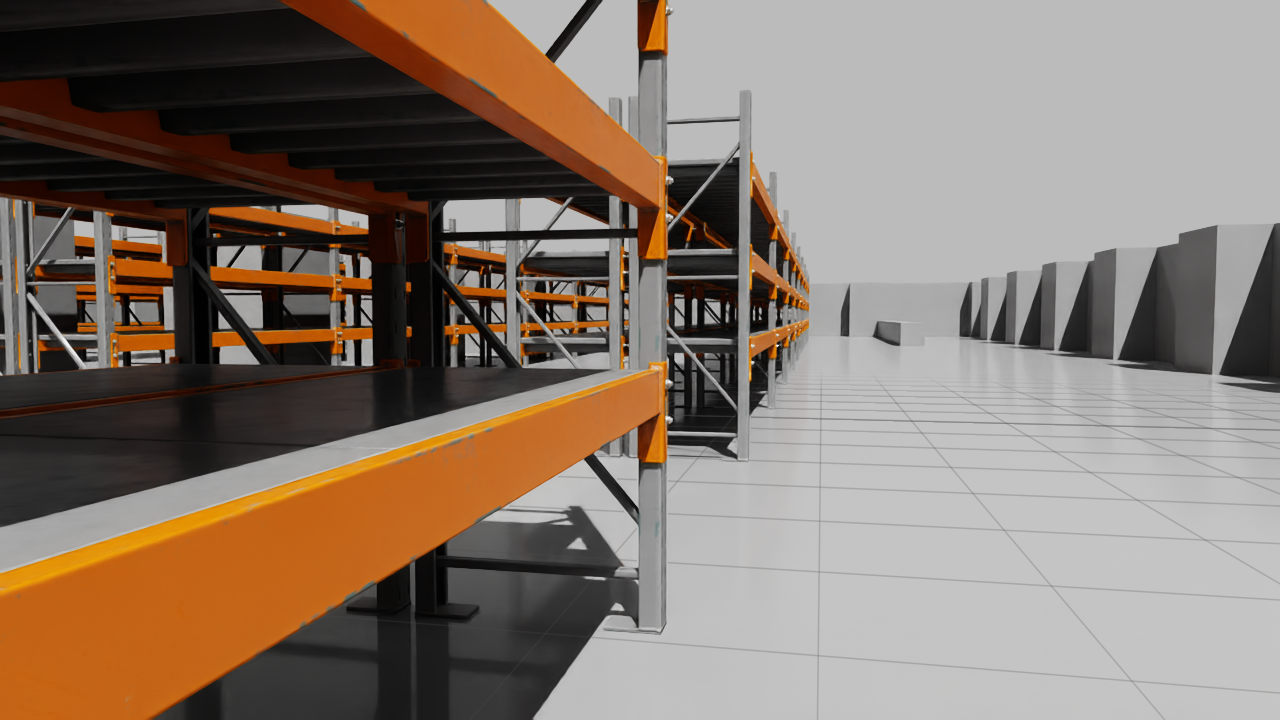
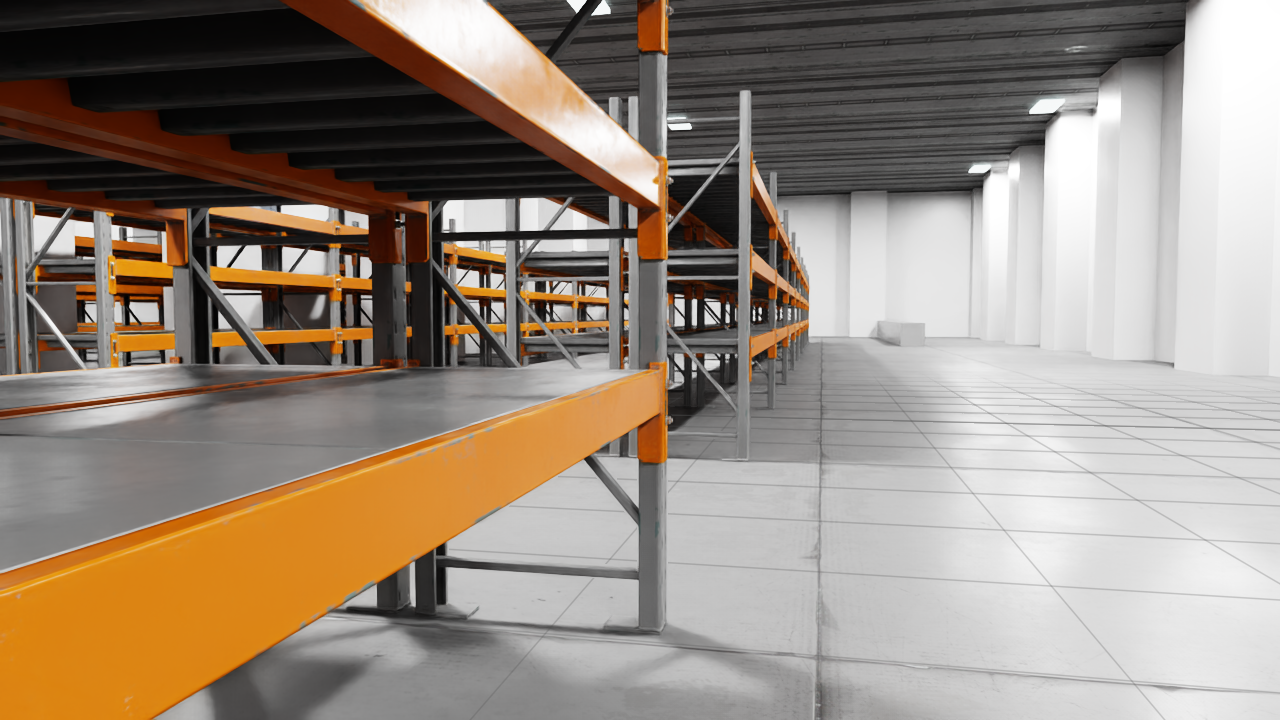
feat: T3 씬 비주얼 드레싱 — 천장·조명 그리드·실물 재질(창고 룩)
- 벽 8m 승고 + 천장 슬래브(MI_CeilingA) + RectLight 48기(하향, 노출 x32)
  + 발광 등기구(M_Glow) + 바닥 타일(MI_Floor_01, UV 타일링)·벽(MI_WallA_01)
  — 전부 Simple_Warehouse 실물 MDL 재사용, 라이다 밴드(0.2~1.2m) 밖이라
  V&V 무손상(벽 100%·랙 98.6%·오검출 0 재확인)
- 실측 교훈 2: RectLight는 기본 -Z(하향) 방사 — X 180도 회전 금지(천장만
  비추는 사고), 실내 밝기는 intensity 30000 단독으론 부족(노출 +5 필요)
- view_scene.py 뷰어 추가(관전용 WebRTC 스트리밍), 검수 스크린샷 갱신

diff --git a/sil/t3_warehouse/build_scene.py b/sil/t3_warehouse/build_scene.py
@@ -25,7 +25,7 @@ import numpy as np
 import omni.physx
 import omni.timeline
 import omni.usd
-from pxr import Gf, Sdf, Usd, UsdGeom, UsdLux, UsdPhysics
+from pxr import Gf, Sdf, Usd, UsdGeom, UsdLux, UsdPhysics, UsdShade
 
 HERE = os.path.dirname(os.path.abspath(__file__))
 MAP_DIR = os.path.join(HERE, "..", "t3_warehouse_map")
@@ -36,8 +36,11 @@ ASSETS = "https://omniverse-content-production.s3-us-west-2.amazonaws.com/Assets
 SHELF_USD = ASSETS + "/Isaac/Environments/Simple_Warehouse/Props/SM_RackShelf_01.usd"
 FRAME_USD = ASSETS + "/Isaac/Environments/Simple_Warehouse/Props/SM_RackFrame_03.usd"
 
+MAT_DIR = ASSETS + "/Isaac/Environments/Simple_Warehouse/Materials"
+
 CELL = 0.1                      # m/셀 (map_gen과 동일)
-WALL_H = 3.0
+WALL_H = 8.0                    # 산업 표준고 가정 (도면에 층고 정보 없음 — 시각용, 라이다 무관)
+CEIL_Z = 8.0                    # 천장 슬래브 하단
 CONV_H = 0.9                    # 라이다 평면(0.7m) 위 — 가시
 RACK_UNIT_L = 16.13
 RACK_D = 1.08
@@ -82,14 +85,45 @@ def greedy_rects(mask):
     return rects
 
 
-def add_box(stage, path, x, y, w, h, z0, z1):
-    """(x,y)~(x+w,y+h), 높이 z0~z1 박스 + 콜라이더."""
+def add_box(stage, path, x, y, w, h, z0, z1, collide=True):
+    """(x,y)~(x+w,y+h), 높이 z0~z1 박스 (+콜라이더)."""
     cube = UsdGeom.Cube.Define(stage, path)
     cube.GetSizeAttr().Set(1.0)
     xf = UsdGeom.Xformable(cube.GetPrim())
     xf.AddTranslateOp().Set(Gf.Vec3d(x + w / 2, y + h / 2, (z0 + z1) / 2))
     xf.AddScaleOp().Set(Gf.Vec3f(w, h, z1 - z0))
-    UsdPhysics.CollisionAPI.Apply(cube.GetPrim())
+    if collide:
+        UsdPhysics.CollisionAPI.Apply(cube.GetPrim())
+    return cube
+
+
+def add_quad(stage, path, x0, y0, x1, y1, z, uv_scale, flip=False):
+    """수평 사각 메시 + 타일링 UV (uv_scale m당 텍스처 1회) — 바닥·천장 시각용."""
+    mesh = UsdGeom.Mesh.Define(stage, path)
+    pts = [(x0, y0, z), (x1, y0, z), (x1, y1, z), (x0, y1, z)]
+    mesh.CreatePointsAttr(pts)
+    mesh.CreateFaceVertexCountsAttr([4])
+    mesh.CreateFaceVertexIndicesAttr([0, 3, 2, 1] if flip else [0, 1, 2, 3])
+    mesh.CreateExtentAttr([(x0, y0, z - 0.01), (x1, y1, z + 0.01)])
+    mesh.CreateDoubleSidedAttr(True)
+    u, v = (x1 - x0) / uv_scale, (y1 - y0) / uv_scale
+    st = UsdGeom.PrimvarsAPI(mesh).CreatePrimvar(
+        "st", Sdf.ValueTypeNames.TexCoord2fArray, UsdGeom.Tokens.vertex)
+    st.Set([(0, 0), (u, 0), (u, v), (0, v)])
+    return mesh
+
+
+def bind_mdl(stage, prim, name, mdl_file):
+    """Simple_Warehouse MDL을 머티리얼로 정의해 prim(하위 상속)에 바인딩."""
+    path = f"/World/Looks/{name}"
+    mtl = UsdShade.Material.Define(stage, path)
+    sh = UsdShade.Shader.Define(stage, path + "/Shader")
+    sh.CreateImplementationSourceAttr(UsdShade.Tokens.sourceAsset)
+    sh.SetSourceAsset(Sdf.AssetPath(mdl_file), "mdl")
+    sh.SetSourceAssetSubIdentifier(name, "mdl")
+    out = sh.CreateOutput("out", Sdf.ValueTypeNames.Token)
+    mtl.CreateSurfaceOutput("mdl").ConnectToSource(out)
+    UsdShade.MaterialBindingAPI.Apply(prim.GetPrim() if hasattr(prim, "GetPrim") else prim).Bind(mtl)
 
 
 t0 = time.time()
@@ -105,19 +139,41 @@ UsdPhysics.Scene.Define(stage, Sdf.Path("/physicsScene"))
 UsdGeom.Xform.Define(stage, "/World")
 stage.SetDefaultPrim(stage.GetPrimAtPath("/World"))
 
-# 바닥 + 조명
-add_box(stage, "/World/ground", -5, -5, COLS * CELL + 10, ROWS * CELL + 10, -0.1, 0.0)
-light = UsdLux.DistantLight.Define(stage, "/World/sun")
-light.CreateIntensityAttr(2500)
-UsdGeom.Xformable(light.GetPrim()).AddRotateXYZOp().Set(Gf.Vec3f(0, -35, 25))
+# 바닥(충돌 박스는 표면 아래로 내려 시각 메시와 z-파이팅 방지) + 천장 + 재질 + 조명
+W, H = COLS * CELL, ROWS * CELL
+add_box(stage, "/World/ground", -5, -5, W + 10, H + 10, -0.11, -0.01)
+floor = add_quad(stage, "/World/floor", -5, -5, W + 5, H + 5, 0.0, uv_scale=4.0)
+bind_mdl(stage, floor, "MI_Floor_01", MAT_DIR + "/MI_Floor_01.mdl")
+ceil = add_quad(stage, "/World/ceiling", 0, 0, W, H, CEIL_Z, uv_scale=6.0, flip=True)
+bind_mdl(stage, ceil, "MI_CeilingA_06b", MAT_DIR + "/MI_CeilingA_06b.mdl")
+
+# 실내 조명 그리드 — 천장 직하 RectLight + 발광 등기구 (전부 z 7.8~7.95, 라이다 밴드 밖)
+UsdGeom.Xform.Define(stage, "/World/lights")
+n_light = 0
+for gx in range(18, 111, 12):
+    for gy in range(28, 89, 12):
+        L = UsdLux.RectLight.Define(stage, f"/World/lights/L_{gx}_{gy}")
+        L.CreateIntensityAttr(30000)
+        L.CreateExposureAttr(5.0)                         # x32 — 30000 단독으론 실내가 암흑 (실측)
+        L.CreateWidthAttr(1.2)
+        L.CreateHeightAttr(0.6)
+        xfl = UsdGeom.Xformable(L.GetPrim())
+        xfl.AddTranslateOp().Set(Gf.Vec3d(gx, gy, 7.8))   # RectLight는 기본 -Z(하향) 방사 — 회전 금지
+        add_box(stage, f"/World/lights/fix_{gx}_{gy}", gx - 0.7, gy - 0.35, 1.4, 0.7,
+                7.85, 7.95, collide=False)
+        n_light += 1
+fixtures = stage.GetPrimAtPath("/World/lights")
+bind_mdl(stage, fixtures, "M_Glow", MAT_DIR + "/M_Glow.mdl")
 dome = UsdLux.DomeLight.Define(stage, "/World/dome")
-dome.CreateIntensityAttr(400)
+dome.CreateIntensityAttr(250)                             # 외부·틈새 보조광
+print(f"[0] 드레싱: 바닥·천장 재질 + 조명 {n_light}기")
 
 # 1) 벽·기둥 (셀값 1)
 walls = greedy_rects(grid == 1)
-UsdGeom.Xform.Define(stage, "/World/walls")
+walls_xf = UsdGeom.Xform.Define(stage, "/World/walls")
 for i, (r0, c0, h, w) in enumerate(walls):
     add_box(stage, f"/World/walls/w_{i}", c0 * CELL, r0 * CELL, w * CELL, h * CELL, 0.0, WALL_H)
+bind_mdl(stage, walls_xf, "MI_WallA_01", MAT_DIR + "/MI_WallA_01.mdl")
 print(f"[1] 벽·기둥 박스 {len(walls)}개")
 
 # 2) 컨베이어 (셀값 5)
@@ -250,8 +306,12 @@ def shoot(pos, rot, fname, focal=18.0):
     print(f"[6] {fname} {'OK' if os.path.exists(path) else '캡처 실패'}")
 
 
+# 탑뷰는 천장을 잠시 숨기고 촬영
+ceil_img = UsdGeom.Imageable(stage.GetPrimAtPath("/World/ceiling"))
+ceil_img.MakeInvisible()
 shoot((COLS * CELL / 2, ROWS * CELL / 2, 120), (0, 0, 0), "scene_top.png", focal=24.0)
-shoot((20, 20, 22), (62, 0, -38), "scene_persp.png")
+ceil_img.MakeVisible()
+shoot((18, 42, 4.5), (75, 0, -55), "scene_persp.png")    # 실내 조감 (천장 8m 아래)
 shoot((60, 47, 1.2), (87, 0, -90 + 12), "scene_aisle.png", focal=14.0)
 
 app.close()

diff --git a/sil/t3_warehouse/view_scene.py b/sil/t3_warehouse/view_scene.py
@@ -1,0 +1,45 @@
+"""T3 씬 뷰어 — warehouse_scene.usd를 WebRTC 스트리밍으로 띄운다 (관전 전용).
+
+실행:
+  cd ~/isaacsim && ./python.sh <repo>/sil/t3_warehouse/view_scene.py
+접속: Isaac Sim WebRTC Streaming Client → 서버 IP (LAN 192.168.0.6 / tailscale 100.89.12.112)
+전제: build_scene.py 실행 완료(warehouse_scene.usd 존재), Isaac 동시 1인스턴스.
+"""
+
+import os
+
+from isaacsim import SimulationApp
+
+app = SimulationApp({"headless": True, "hide_ui": False})
+app.set_setting("/app/window/drawMouse", True)
+
+from isaacsim.core.experimental.utils.app import enable_extension
+
+enable_extension("omni.kit.livestream.app")
+
+import omni.usd
+from omni.kit.viewport.utility import get_active_viewport
+from pxr import Gf, UsdGeom
+
+HERE = os.path.dirname(os.path.abspath(__file__))
+ctx = omni.usd.get_context()
+ctx.open_stage(os.path.join(HERE, "warehouse_scene.usd"))
+while ctx.get_stage_loading_status()[2] > 0:
+    app.update()
+for _ in range(30):
+    app.update()
+
+# 초기 시점: 남서측 조감 (검수 스크린샷과 동일 구도) — 이후 클라이언트에서 자유 조작
+stage = ctx.get_stage()
+cam = UsdGeom.Camera.Define(stage, "/World/view_cam")
+cam.CreateFocalLengthAttr(18.0)
+cam.CreateClippingRangeAttr(Gf.Vec2f(0.1, 2000))
+xf = UsdGeom.Xformable(cam.GetPrim())
+xf.AddTranslateOp().Set(Gf.Vec3d(20, 20, 22))
+xf.AddRotateXYZOp().Set(Gf.Vec3f(62, 0, -38))
+get_active_viewport().camera_path = "/World/view_cam"
+
+print("[view_scene] ready — WebRTC 접속 대기 (종료: 프로세스 킬)", flush=True)
+while app.is_running():
+    app.update()
+app.close()
